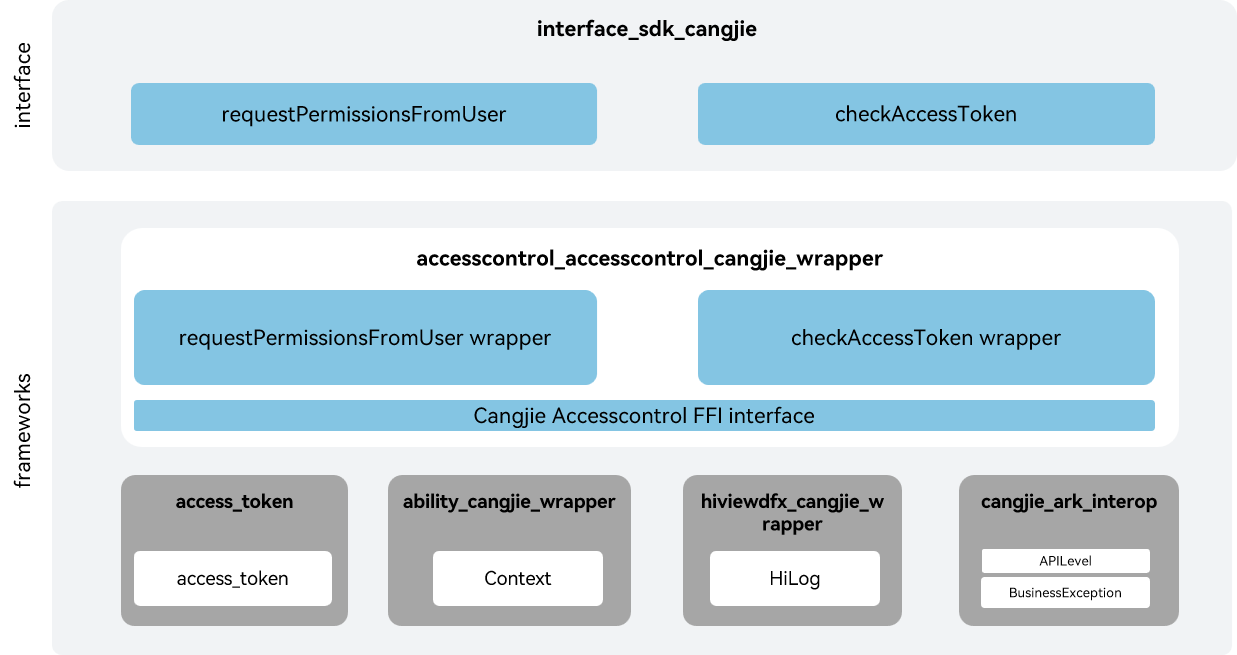
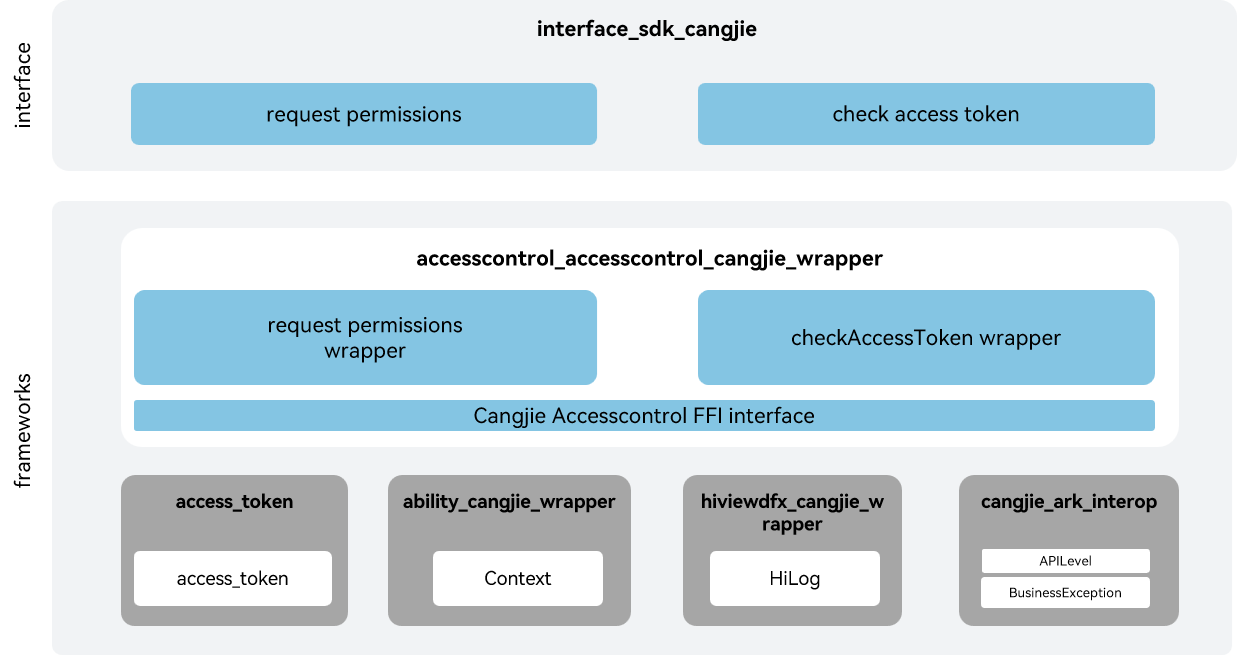
fix_readme

Changed region(s): [[0.1536, 0.4885, 0.4608, 0.5496], [0.1843, 0.1527, 0.3994, 0.1832], [0.6758, 0.1527, 0.8294, 0.1832]]

diff --git a/README_zh.md b/README_zh.md
@@ -12,8 +12,8 @@
 
 如架构图所示：
 
-- 请求用户授权：开发者可调用requestPermissionsFromUser接口请求用户授权，并返回此次权限申请的结果。访问控制提供应用程序的权限校验和管理能力。
-- 检验应用权限是否被授予： 开发者可通过checkAccessToken查看应用是否被授权。
+- 授权接口：开发者可请求用户授权，并返回此次权限申请的结果。访问控制提供应用程序的权限校验和管理能力。
+- 鉴权接口： 开发者可查看应用是否被授权。
 - 仓颉访问控制FFI接口定义：负责定义C语言互操作仓颉接口，用于实现仓颉访问控制能力。
 - 访问控制模块：负责提供访问控制基础功能，封装C语言接口提供给仓颉进行互操作。
 
@@ -38,7 +38,7 @@ base/accesscontrol/accesscontrol_cangjie_wrapper
 访问控制仓颉接口提供以下功能，开发者可以根据诉求使用：
 
   - 访问控制提供应用程序的权限校验和管理能力。开发者可通过提供的接口申请和查看应用权限。
-  - 权限请求结果对象可以在用户调用requestPermissionsFromUser接口申请权限时返回此次权限申请的结果。
+  - 权限请求结果对象可以在用户调用接口申请权限时返回此次权限申请的结果。
 
 
 与ArkTS提供的API能力相比，暂不支持以下功能：

diff --git a/README.md b/README.md
@@ -12,8 +12,8 @@ The accesscontrol_cangjie_wrapper is a Cangjie API encapsulated on OpenHarmony b
 
 As shown in the architecture diagram:
 
-- requestPermissionsFromUser: Developers can call the requestPermissionsFromUser to request user authorization, and the result of this permission application will be returned.
-- checkAccessToken: accesscontrol_cangjie_wrapper provides permission verification and management capabilities for applications. Developers can use checkAccessToken to check whether an application has been authorized.
+- requestPermissionsFromUser: Developers can request user authorization, and the result of this permission application will be returned.
+- checkAccessToken: accesscontrol_cangjie_wrapper provides permission verification and management capabilities for applications. Developers can check whether an application has been authorized.
 - Cangjie Accesscontrol FFI interface: Based on cross-language interoperability via C interfaces to implement accesscontrol Cangjie API.
 - access_token: It is responsible for providing basic functions of application access control, and encapsulates C interfaces to provide interoperability for Cangjie.
 
